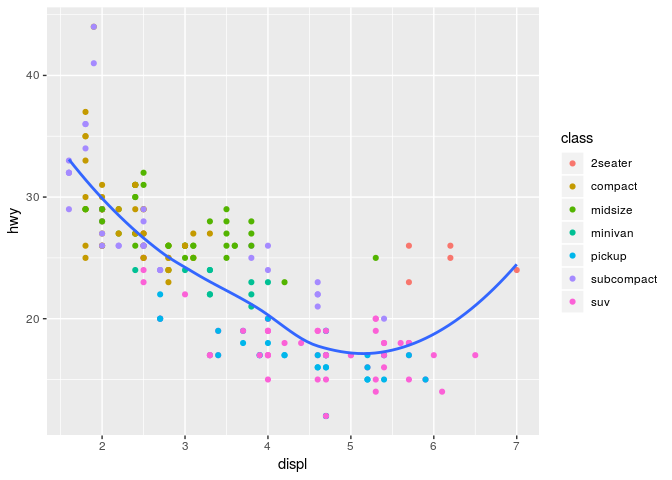
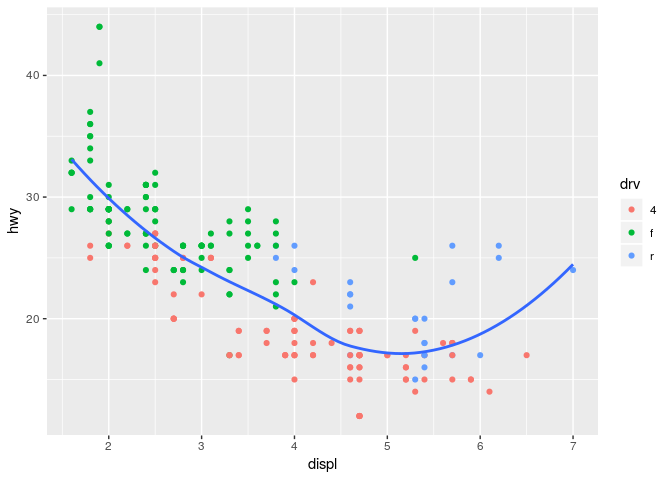
Code update

diff --git a/index.md b/index.md
@@ -6,14 +6,14 @@ Homework 2: ggplot
 library(tidyverse)
 ```
 
-    ## ── Attaching packages ───────────────────────────────────────────────────────────── tidyverse 1.2.1 ──
+    ## ── Attaching packages ───────────────────────────────────────────── tidyverse 1.2.1 ──
 
     ## ✔ ggplot2 3.1.0       ✔ purrr   0.3.0  
     ## ✔ tibble  2.0.1       ✔ dplyr   0.8.0.1
     ## ✔ tidyr   0.8.2       ✔ stringr 1.4.0  
     ## ✔ readr   1.3.1       ✔ forcats 0.4.0
 
-    ## ── Conflicts ──────────────────────────────────────────────────────────────── tidyverse_conflicts() ──
+    ## ── Conflicts ──────────────────────────────────────────────── tidyverse_conflicts() ──
     ## ✖ dplyr::filter() masks stats::filter()
     ## ✖ dplyr::lag()    masks stats::lag()
 
@@ -84,7 +84,7 @@ ggplot(data = mpg, mapping = aes(x = displ, y = hwy, color = drv)) +
 
 ``` r
 ggplot(data = mpg, mapping = aes(x = displ, y = hwy)) + 
-  geom_point(mapping = aes(color = class)) +
+  geom_point(mapping = aes(color = drv)) +
   geom_smooth(se = FALSE)
 ```
 
@@ -109,6 +109,13 @@ ggplot(data = mpg, mapping = aes(x = displ, y = hwy)) +
 ```
 
 ![](index_files/figure-gfm/unnamed-chunk-4-6.png)<!-- -->
+
+``` r
+ggplot(data = mpg, mapping = aes(x = displ, y = hwy, fill = drv)) + 
+  geom_point(shape = 21, stroke = 1.5, color = "white", size = 2)
+```
+
+![](index_files/figure-gfm/unnamed-chunk-4-7.png)<!-- -->
 
   - Most geoms and stats come in pairs that are almost always used in
     concert. Read through the documentation and make a list of all the
@@ -162,6 +169,9 @@ are placed in the upper part of graph. `geom_abline()` produce the
 reference line. The function `coord_fixed()` ensures that the line
 produced by `geom_abline()` is at a 45-degree angle. If we remove
 `coord_fixed()`, then the line would not be at 45-degree angle anymore.
+Points are above line which means that highway drive is more economical
+that drive in city. If points were below line, that will tell us that
+those cars are more economical in city than in highway.
 
   - What is the default geom associated with stat\_summary()?
 
